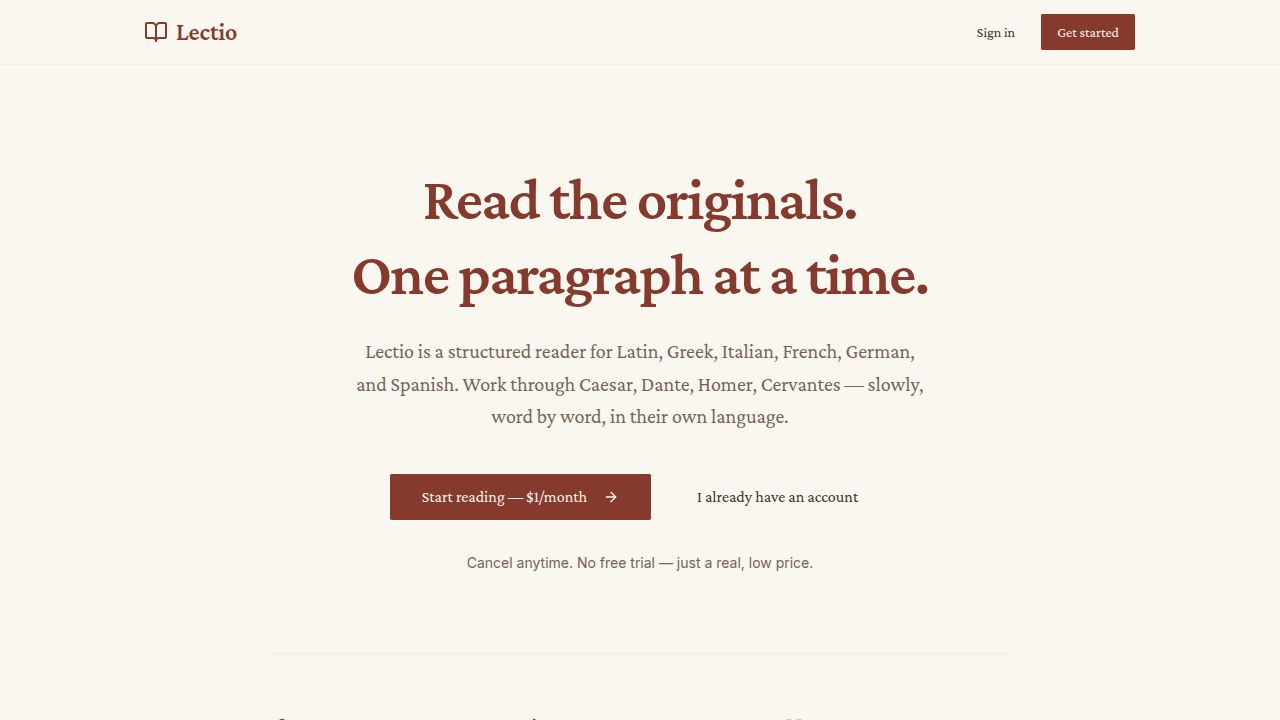
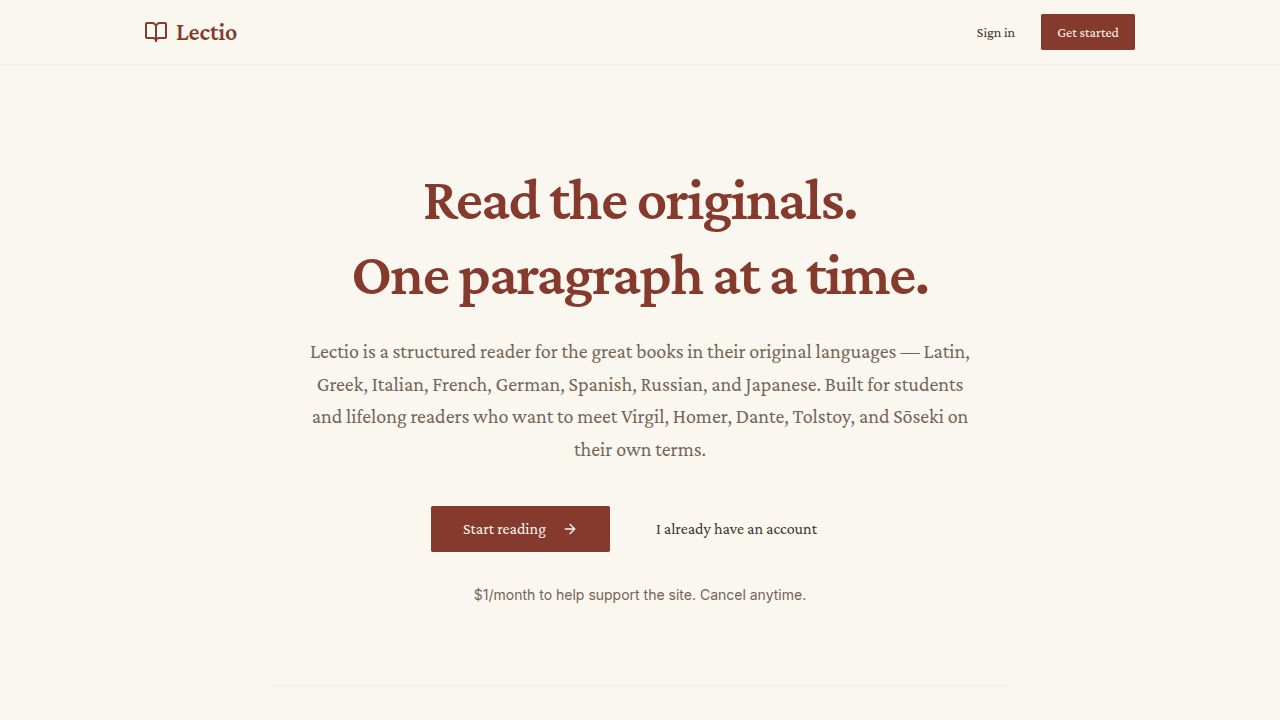
Add content about reading in original languages and reframe pricing
Update landing page to include a section on the importance of reading original texts, citing the Aeneid's Laocoön passage, and rephrase pricing to emphasize site support.

Replit-Commit-Author: Agent
Replit-Commit-Session-Id: 39f98603-5f0b-471a-9a7c-3f1f65e1bfa2
Replit-Commit-Checkpoint-Type: full_checkpoint
Replit-Commit-Event-Id: a2f5a666-0430-4613-9708-f26acbfeeb42
Replit-Commit-Screenshot-Url: https://storage.googleapis.com/screenshot-production-us-central1/96440aa6-a63e-4090-86d3-7a1266f35d5e/39f98603-5f0b-471a-9a7c-3f1f65e1bfa2/4ifJ431
Replit-Helium-Checkpoint-Created: true

Changed region(s): [[0.25, 0.4583, 0.75, 0.7944], [0.375, 0.825, 0.625, 0.8556]]

diff --git a/artifacts/lectio/src/pages/landing.tsx b/artifacts/lectio/src/pages/landing.tsx
@@ -38,7 +38,7 @@ export default function Landing() {
           <div className="flex flex-col sm:flex-row items-center justify-center gap-3 pt-4">
             <Link href="/sign-up">
               <Button size="lg" className="font-serif text-base h-12 px-8">
-                Start reading — $1/month
+                Start reading
                 <ArrowRight className="ml-2 h-4 w-4" />
               </Button>
             </Link>
@@ -49,7 +49,7 @@ export default function Landing() {
             </Link>
           </div>
           <p className="text-sm text-muted-foreground pt-2">
-            Cancel anytime. No free trial — just a real, low price.
+            $1/month to help support the site. Cancel anytime.
           </p>
         </section>
 
@@ -76,6 +76,45 @@ export default function Landing() {
               Anna Karenina in Russian, or Kokoro in Japanese, the way the author
               wrote it. Lectio makes that possible too — a quiet, beautiful place
               to spend twenty minutes a day with the books that matter.
+            </p>
+          </div>
+        </section>
+
+        <section className="border-t border-border/40 pt-16 space-y-6">
+          <h2 className="text-3xl md:text-4xl font-serif font-semibold text-primary tracking-tight text-center">
+            Why the original matters.
+          </h2>
+          <div className="max-w-2xl mx-auto space-y-5 text-muted-foreground font-serif text-base md:text-lg leading-relaxed">
+            <p>
+              You don't have to be a scholar to read the great works in their own
+              language. Even a slow, halting first encounter — original on one
+              side, translation on the other — gives you something no
+              translation alone can: the actual shape of the author's mind.
+            </p>
+            <p>
+              Take the death of Laocoön in Book II of the Aeneid. Virgil
+              writes:
+            </p>
+            <blockquote className="border-l-2 border-primary/40 pl-5 py-1 font-serif italic text-foreground text-lg md:text-xl leading-relaxed">
+              <span className="block">illum eōdem flātū tepefacta per ōra</span>
+              <span className="block">cruentō expulsa caede recessit</span>
+              <span className="block text-base not-italic text-muted-foreground mt-2">
+                (...two serpents coil around Laocoön and his sons, their bodies
+                literally wound through the line itself.)
+              </span>
+            </blockquote>
+            <p>
+              Because Latin is inflected — every noun and adjective marked for
+              case — Virgil could place the words almost anywhere he wanted and
+              still have the sentence make sense. So he <em>snakes</em> the
+              modifiers around their nouns the way the serpents snake around
+              their victims. The grammar enacts the horror. In English you can
+              describe the scene; in Latin you watch it happen on the page.
+            </p>
+            <p>
+              That's what reading in the original gives you, and it's why even
+              an imperfect attempt is worth the effort. Lectio is built to
+              make that attempt feel possible.
             </p>
           </div>
         </section>
@@ -114,12 +153,13 @@ export default function Landing() {
             <Sparkles className="h-6 w-6 text-primary" />
           </div>
           <h2 className="text-3xl font-serif font-semibold text-primary">
-            One dollar a month
+            Support the site
           </h2>
           <p className="text-muted-foreground font-serif max-w-xl mx-auto">
-            Lectio is supported by a single, honest price — about the cost of a
-            postcard. No ads, no tracking, no dark patterns. Cancel from your
-            account at any time.
+            Lectio is supported entirely by its readers — $1 a month, no ads,
+            no tracking, no investors. Every subscription goes directly into
+            adding more works, more languages, and new features like scansion,
+            grammar notes, and audio. Cancel from your account at any time.
           </p>
           <Link href="/sign-up">
             <Button size="lg" className="font-serif">
